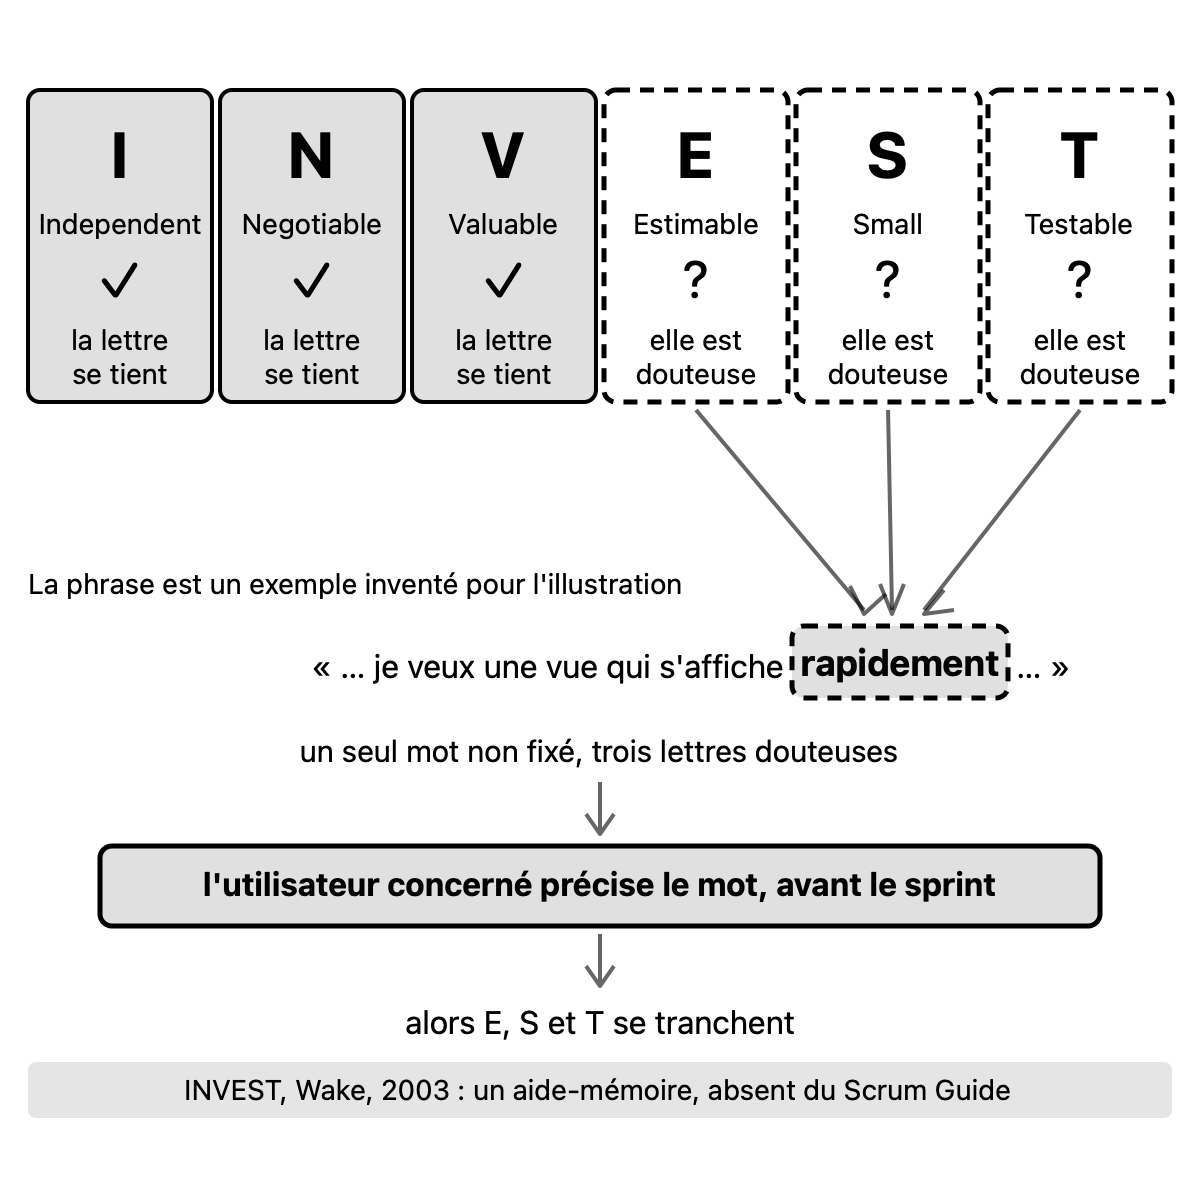
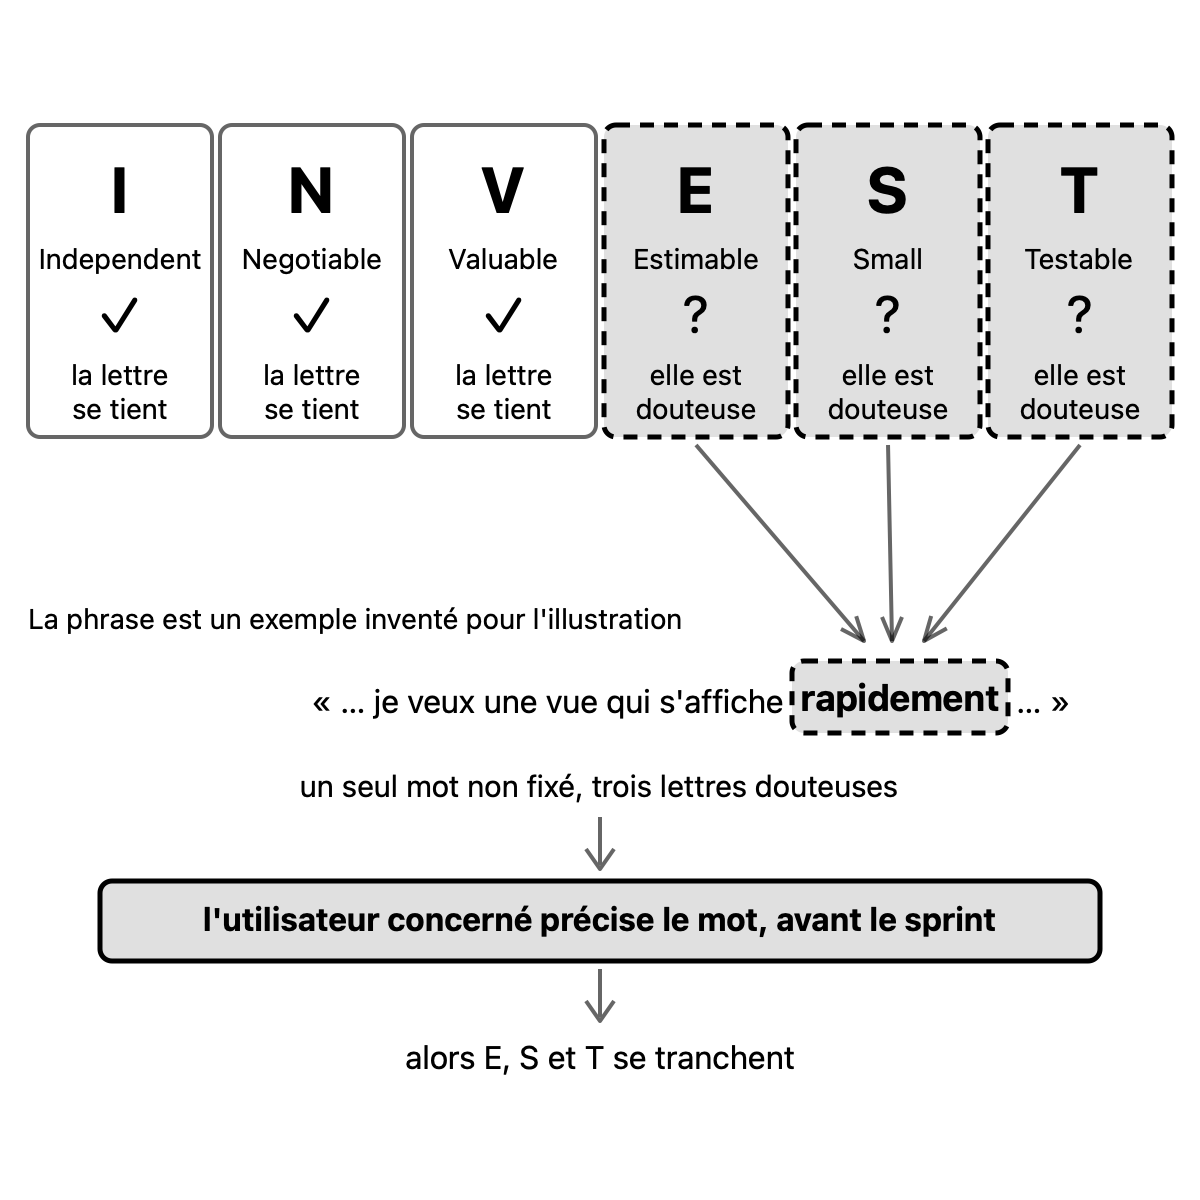
course(course:parcours-po): fix concept 7 after the fresh review

diff --git a/construction/notes/S1-10-07-report.md b/construction/notes/S1-10-07-report.md
@@ -57,7 +57,6 @@ Its sentences, where the inventory sends them (M11):
 | E9 | note sur le mot flou | « un seul mot non fixé, trois lettres douteuses » | text | none |
 | E10 | l'étape qui suit : l'utilisateur concerné précise le mot, avant le sprint | « l'utilisateur concerné précise le mot, avant le sprint » | subject | none |
 | E11 | le résultat de la précision : E, S et T se tranchent | « alors E, S et T se tranchent » | text | none |
-| E12 | bandeau de rappel sur l'origine d'INVEST | « INVEST, Wake, 2003 : un aide-mémoire, absent du Scrum Guide » | text | none |
 
 Relations:
 - E1, E2, E3, E4, E5, E6 : les six lettres d'INVEST, dans cet ordre (I, N, V, E, S, T)
@@ -67,7 +66,6 @@ Relations:
 - E9 dit ce que montrent E8 et E4, E5, E6 : un seul mot non fixé, trois lettres douteuses
 - E7 puis E10, dans cet ordre : une fois le mot précisé, avant le sprint
 - E10 mène à E11 : après la précision, E4, E5 et E6 se tranchent
-- E12 est le rappel qui accompagne l'ensemble
 
 Key of the inventory: none. Key drawn: none.
 
@@ -136,8 +134,10 @@ Failing the run:
 - glossary-order: fail: concepts/07-invest/concept.md:38 uses the term "Critère d'acceptation", introduced by concept 8 (glossary.md:46), which comes later
 - glossary-order: fail: concepts/07-invest/concept.md:52 uses the term "Dépendance", introduced by concept 10 (glossary.md:56), which comes later
 
-## After the run (contributor, rule C and rule A of #23)
+## Fixes after the run
 
 - sources: reference S5 (North, « Introducing BDD ») removed from « Références »: the frozen sources file (`parcours-po/course/sources/07-invest.md`) and the MDX tie it to no claim. Re-run: `sources: ok`.
 - glossary-order: the two failures (« Critère d'acceptation », « Dépendance ») stay, by rule A (fixed once for all concepts by #166).
 - `->` at frozen sources line 69: none in the output; `typography: ok`.
+- Fresh review, SVG (SPEC 7.2): the origin band (second idea, E12 of the inventory) dropped and the viewBox shortened to 495; I, N, V boxes unfilled with a weaker stroke, E, S, T keep the dashes and the fill, so the subject is the most marked; arrowheads redrawn clear of the « rapidement » box. PNG regenerated. « Schéma » of `teaching.md`: the banner sentence removed.
+- Fresh review,  pitfalls: the duplicated « avant le sprint » sentence merged; « exemple inventé » made « cas inventé ».

diff --git a/courses/parcours-po/concepts/07-invest/concept.md b/courses/parcours-po/concepts/07-invest/concept.md
@@ -79,11 +79,11 @@ Exemple inventé pour l'illustration : un régulateur consulte une vue depuis sa
 ## Pièges
 
 - **Cocher E et S « OK » sans pouvoir le vérifier** : si plusieurs lettres dépendent d'un même mot flou, c'est ce mot qu'il faut creuser, puis faire préciser par l'utilisateur concerné.
-- **Fixer soi-même le mot flou**, ou le laisser fixer par les Developers : l'utilisateur concerné le précise, avant le sprint. Le PO le fait préciser par l'utilisateur avant le sprint (concept 15) ; la story attend.
+- **Fixer soi-même le mot flou**, ou le laisser fixer par les Developers : l'utilisateur concerné le précise, avant le sprint. Le PO le lui fait préciser (concept 15) ; la story attend.
 - **Juger E et S à la place des Developers** : ce sont eux qui estiment la taille.
 - **Donner S en jours** comme si c'était la grille : chez Wake, c'est au plus quelques semaines-personnes ; quelques jours-personnes, c'est le choix de certaines équipes ; le repère du cours est le sprint.
 - **Écrire la solution dans la story ou dans le critère** (« un export CSV chaque matin ») : l'équipe ne peut plus proposer mieux. Écrire le besoin ; la contrainte réelle va dans un critère.
-- **Croire que négociable veut dire tout ouvert** : la contrainte d'usage ne se négocie pas (par exemple, se lire sur un petit écran, exemple inventé).
+- **Croire que négociable veut dire tout ouvert** : la contrainte d'usage ne se négocie pas (par exemple, se lire sur un petit écran, cas inventé).
 - **Rejeter une story parce qu'elle dépend d'une autre équipe** : I se tient autant que possible ; la dépendance s'écrit et se traite (concept 10).
 - **Prendre INVEST pour une règle de Scrum** : c'est un aide-mémoire de Wake, absent du Scrum Guide.
 

diff --git a/courses/parcours-po/concepts/07-invest/teaching.md b/courses/parcours-po/concepts/07-invest/teaching.md
@@ -189,5 +189,4 @@ rapidement … »). Le mot « rapidement » est surligné dans la phrase ; trois
 vers les cases E, S et T, en rouge, comme trois branches sur une même racine ; I, N, V en vert.
 Deuxième état, à droite : « rapidement » précisé par l'utilisateur concerné, avant le sprint ;
 alors seulement les trois cases passent au vert. Légende : « plusieurs
-lettres en rouge : cherche le mot dont elles dépendent ». En bandeau : « INVEST, Wake 2003 :
-un aide-mémoire, absent du Scrum Guide ».
+lettres en rouge : cherche le mot dont elles dépendent ».
